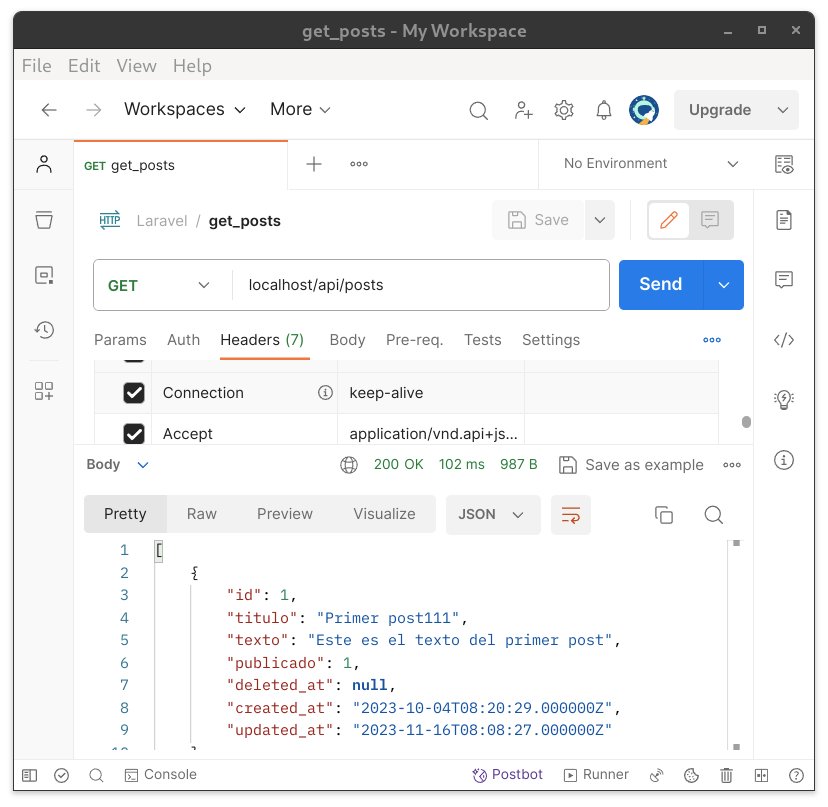
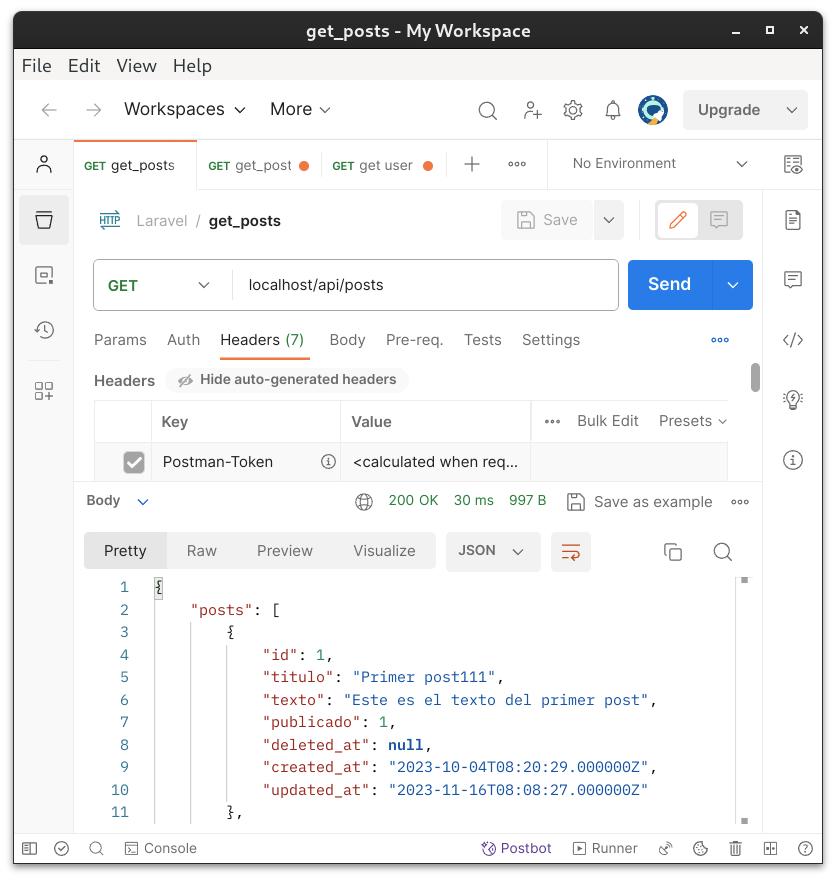
[Laravel] API authentication
Y corregidos alguna cosilla más.

diff --git a/temas_comunes/laravel/laravel_book.tex b/temas_comunes/laravel/laravel_book.tex
@@ -25,44 +25,51 @@
     %--------------------------------------------------------------------------
     \graphicspath{{img/}}
 
-    \part{Introducción}
-    \input{1_introduccion.tex}
-    \input{1_mvc.tex}
-
-    \part{Crear entorno Laravel}
-    \input{2_crear_proyecto.tex}
-    \input{visul_studio_code.tex}
-
-    \part{Funcionalidad básica}
-    \input{3_crear_modelo_controlador.tex}
-
-    \part{Usar Bootstrap en Laravel}
-    \input{4_bootstrap.tex}
-
-    \part{Métodos \textit{create}, \textit{update}, \textit{delete}}
-    \input{5_crear_y_actualizar.tex}
-
-    \part{\textit{Middlewares} y autenticación}
-    \input{7_middlewares_autenticacion.tex}
-
-    \part{Relacionar modelos}
-    \input{6_relacionar_modelos.tex}
+%    \part{Introducción}
+%    \input{1_introduccion.tex}
+%    \input{1_mvc.tex}
+%
+%    \part{Crear entorno Laravel}
+%    \input{2_crear_proyecto.tex}
+%    \input{visul_studio_code.tex}
+%
+%    \part{Funcionalidad básica}
+%    \input{3_crear_modelo_controlador.tex}
+%
+%    \part{Usar Bootstrap en Laravel}
+%    \input{4_bootstrap.tex}
+%
+%    \part{Métodos \textit{create}, \textit{update}, \textit{delete}}
+%    \input{5_crear_y_actualizar.tex}
+%
+%    \part{\textit{Middlewares} y autenticación}
+%    \input{7_middlewares_autenticacion.tex}
+%
+%    \part{Relacionar modelos}
+%    \input{6_relacionar_modelos.tex}
 
     \part{Cómo crear una API}
     \input{9_api.tex}
 
-    \part{Puesta en producción}
-    \input{8_produccion.tex}
+%    \part{Puesta en producción}
+%    \input{8_produccion.tex}
+%
+%    \part{Introducción a Docker}
+%    \graphicspath{{../../otros/Docker/}}
+%    \input{../../otros/Docker/docker.tex}
+%
+%    \part{Instalar Ubuntu  Server 22.04}
+%    \graphicspath{{../../anexos/instalar_ubuntu_lts/img/}}
+%    \input{../../anexos/instalar_ubuntu_lts/instalar_ubuntu_lts.tex}
+%
+%    \graphicspath{{../../temas_comunes/administracion_remota/img/}}
+%    \input{../../temas_comunes/administracion_remota/administracion_remota.tex}
 
-    \part{Introducción a Docker}
-    \graphicspath{{../../otros/Docker/}}
-    \input{../../otros/Docker/docker.tex}
 
-    \part{Instalar Ubuntu  Server 22.04}
-    \graphicspath{{../../anexos/instalar_ubuntu_lts/img/}}
-    \input{../../anexos/instalar_ubuntu_lts/instalar_ubuntu_lts.tex}
-
-    \graphicspath{{../../temas_comunes/administracion_remota/img/}}
-    \input{../../temas_comunes/administracion_remota/administracion_remota.tex}
+    %Cómo crear una API con Laravel
+    %    - JSON web token
+    %    - crear esquema E/R
+    %    - crear controlador
+    %    - crear funciones
 
 \end{document}
